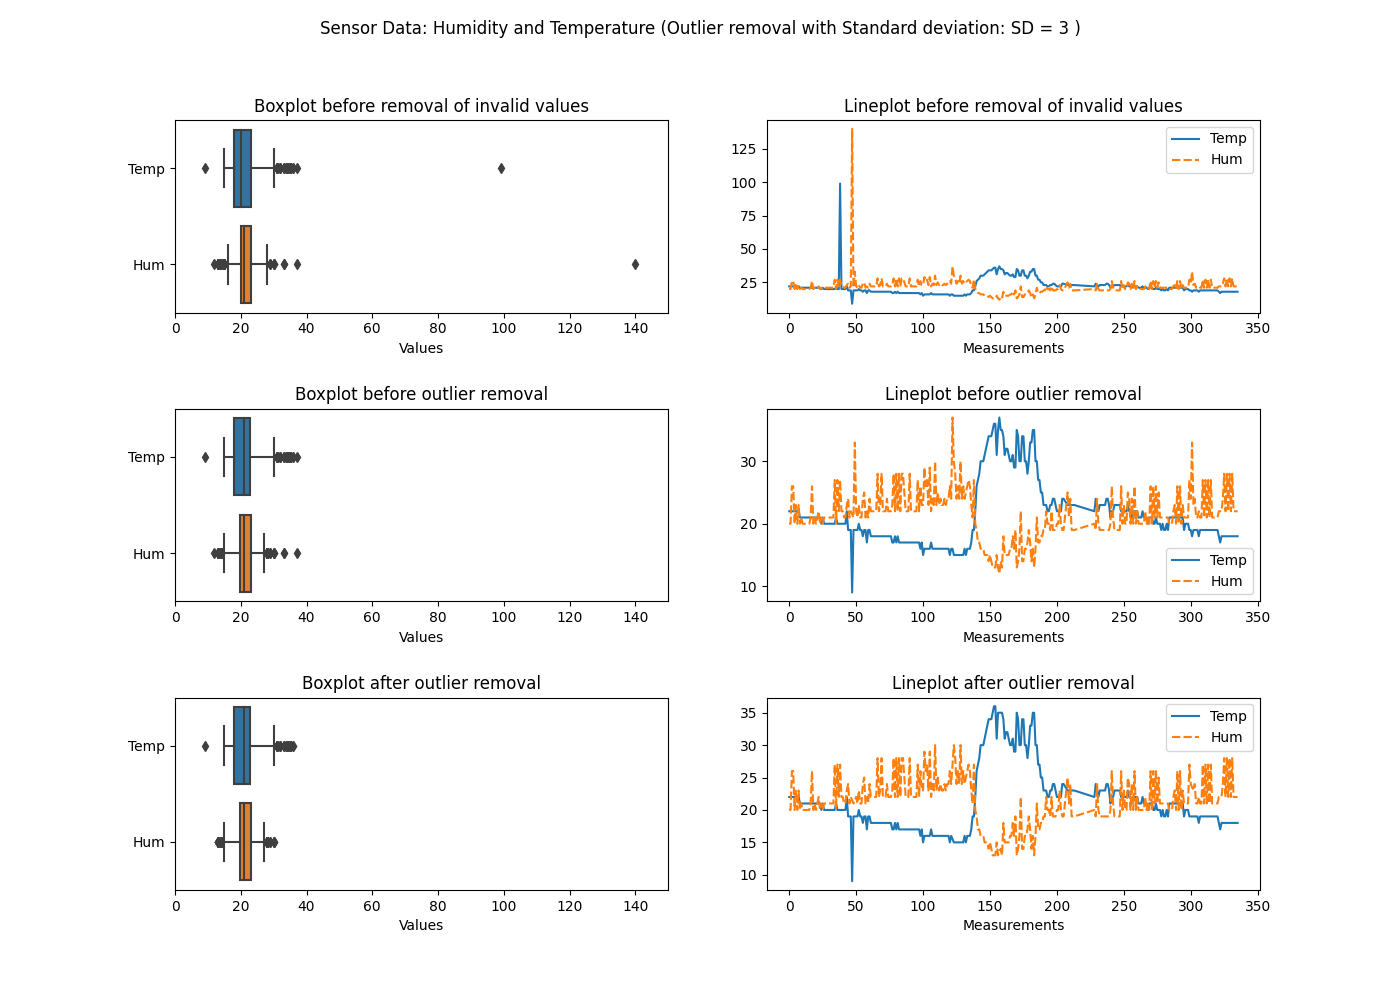
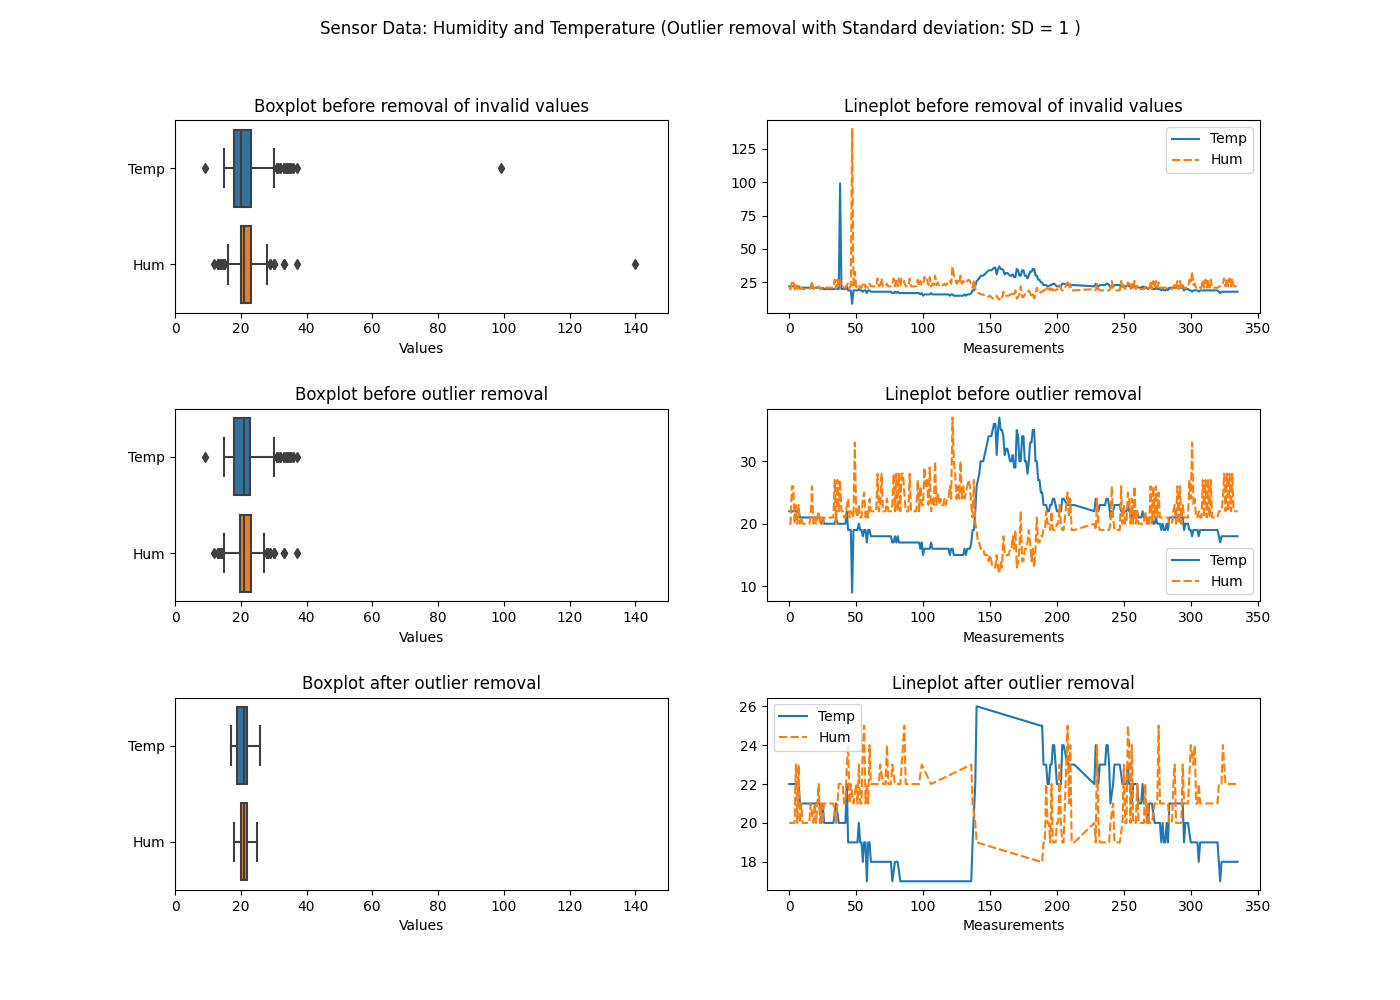
Bugfix remove_outliers

Changed region(s): [[0.5221, 0.713, 0.8907, 0.899], [0.1536, 0.713, 0.215, 0.775], [0.1536, 0.806, 0.215, 0.868]]

diff --git a/TimeSeriesHandler.py b/TimeSeriesHandler.py
@@ -405,8 +405,10 @@ class FileHandler(object):
 					if z > threshold:
 						outlier_hum.append(hum)
 				# Remove outliers
-				self.dataframe = self.dataframe[(self.dataframe['Temp'] <= mean_temp+(n_std*sd_temp))]
-				self.dataframe = self.dataframe[(self.dataframe['Hum'] <= mean_hum+(n_std*sd_hum))]
+				self.dataframe = self.dataframe[(self.dataframe['Temp'] < mean_temp+(n_std*sd_temp))]
+				self.dataframe = self.dataframe[(self.dataframe['Temp'] > mean_temp-(n_std*sd_temp))]
+				self.dataframe = self.dataframe[(self.dataframe['Hum'] < mean_hum+(n_std*sd_hum))]
+				self.dataframe = self.dataframe[(self.dataframe['Hum'] > mean_hum-(n_std*sd_hum))]
 			if (bool(self.no[0])):
 				console.print(f'[{messageColor}]Outlier removal is deactivated.')
 
